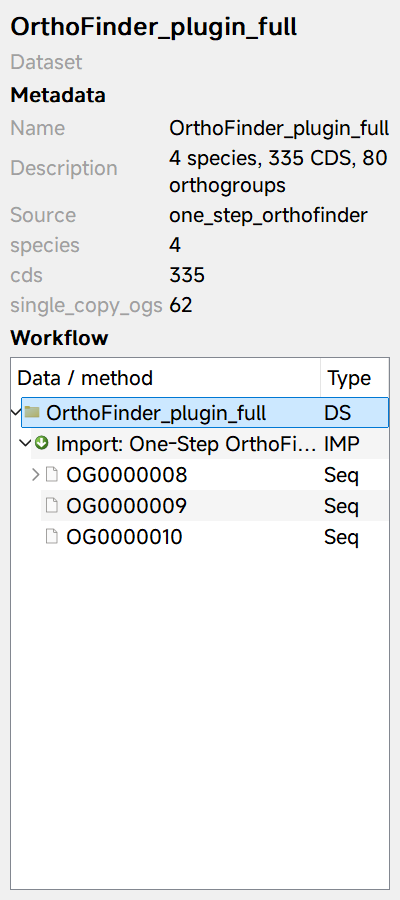
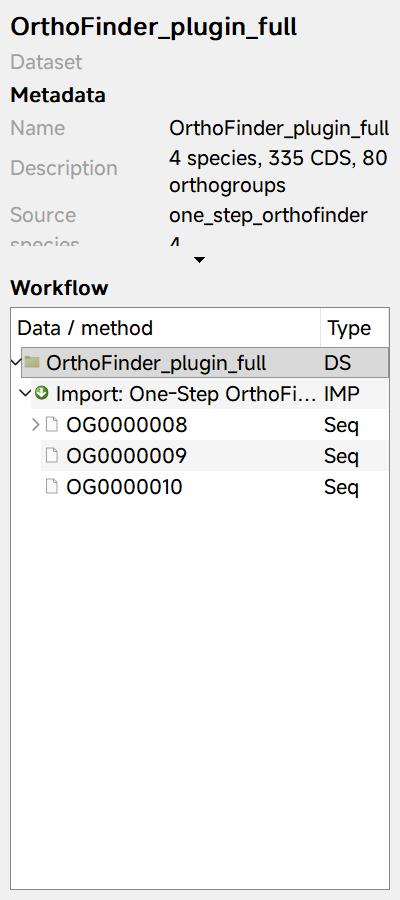
ui: animate expandable metadata section
Metadata is a scrollable QFormLayout capped to a few rows when collapsed. The bottom arrow animates it to fill the panel (title stays visible), hides Operations/Workflow/Runs, and enables a right scrollbar. Add inspector.set_metadata_expanded to the semantic action contract and update the expanded screenshot.

Changed region(s): [[0.0, 0.2489, 0.99, 0.6222], [0.15, 0.2489, 0.18, 0.28]]

diff --git a/YR_MPE/platforms/methods/inspector_panel.py b/YR_MPE/platforms/methods/inspector_panel.py
@@ -18,7 +18,7 @@ import json
 from datetime import datetime
 from typing import Any, Dict, List, Optional
 
-from PyQt5.QtCore import QSize, Qt, pyqtSignal
+from PyQt5.QtCore import QEasingCurve, QPropertyAnimation, QSize, Qt, pyqtSignal
 from PyQt5.QtGui import QFont
 from PyQt5.QtWidgets import (
     QAbstractItemView,
@@ -27,13 +27,17 @@ from PyQt5.QtWidgets import (
     QDialog,
     QDialogButtonBox,
     QFormLayout,
+    QFrame,
     QHBoxLayout,
     QHeaderView,
     QLabel,
     QLineEdit,
     QPlainTextEdit,
     QPushButton,
+    QScrollArea,
+    QSizePolicy,
     QStyle,
+    QToolButton,
     QTreeWidget,
     QTreeWidgetItem,
     QVBoxLayout,
@@ -127,6 +131,11 @@ class InspectorPanel(QWidget):
         self.current_dataset_id: Optional[str] = None
         self._item_nodes: Dict[str, QTreeWidgetItem] = {}
         self._run_nodes: Dict[str, QTreeWidgetItem] = {}
+        self._metadata_expanded = False
+        self._has_operations = False
+        self._has_run = False
+        self._metadata_collapsed_height = 132
+        self._metadata_animation: Optional[QPropertyAnimation] = None
 
         self.setObjectName("inspector")
         self._icons = {}
@@ -154,11 +163,15 @@ class InspectorPanel(QWidget):
         self.current_dataset_id = None
         self.title_label.setText("Inspector")
         self.subtitle_label.setText("Select a data node or dataset")
+        self._has_operations = False
+        self._has_run = False
+        self._metadata_expanded = False
         self._clear_operations()
-        self._set_operations_visible(False)
         self._set_form_rows([])
         self.workflow_tree.clear()
-        self.run_section.setVisible(False)
+        self.metadata_toggle.setEnabled(False)
+        self._apply_metadata_mode(animated=False)
+        self._set_secondary_visible(False)
 
     def show_item(self, item_id: str):
         item = self._get_item(item_id)
@@ -183,6 +196,8 @@ class InspectorPanel(QWidget):
         self._fill_item_metadata(item, item_type, dataset_name, run)
         self._fill_workflow(self.current_dataset_id, item_id=item_id, run_id=None)
         self._fill_runs(item)
+        self.metadata_toggle.setEnabled(True)
+        self._apply_metadata_mode(animated=False)
 
     def show_run(self, run_id: str):
         store = self._get_store()
@@ -200,10 +215,13 @@ class InspectorPanel(QWidget):
         self.subtitle_label.setText(
             "Run · %s · %s" % (run.method, dataset_name or "no dataset")
         )
+        self._has_run = False
         self._fill_run_operations(run)
         self._fill_run_metadata(run, dataset_name)
         self._fill_workflow(self.current_dataset_id, item_id=None, run_id=run_id)
         self.run_section.setVisible(False)
+        self.metadata_toggle.setEnabled(True)
+        self._apply_metadata_mode(animated=False)
 
     def show_dataset(self, dataset_id: str):
         dataset = self._get_dataset(dataset_id)
@@ -217,11 +235,14 @@ class InspectorPanel(QWidget):
         name = _attr(dataset, "name", default=dataset_id)
         self.title_label.setText(name)
         self.subtitle_label.setText("Dataset")
+        self._has_operations = False
+        self._has_run = False
         self._clear_operations()
-        self._set_operations_visible(False)
         self._fill_dataset_metadata(dataset)
         self._fill_workflow(dataset_id, item_id=None, run_id=None)
         self.run_section.setVisible(False)
+        self.metadata_toggle.setEnabled(True)
+        self._apply_metadata_mode(animated=False)
 
     def refresh(self):
         if self.current_item_id:
@@ -245,6 +266,7 @@ class InspectorPanel(QWidget):
                 "item_id": self.current_item_id,
                 "run_id": self.current_run_id,
                 "dataset_id": self.current_dataset_id,
+                "metadata_expanded": self._metadata_expanded,
             },
             "actions": [
                 {
@@ -277,6 +299,11 @@ class InspectorPanel(QWidget):
                         "run_id": {"type": "string", "required": True},
                         "name": {"type": "string", "required": True},
                     },
+                },
+                {
+                    "id": "inspector.set_metadata_expanded",
+                    "description": "Expand or collapse the metadata section",
+                    "parameters": {"expanded": {"type": "boolean", "required": True}},
                 },
                 {
                     "id": "inspector.rerun_run",
@@ -318,6 +345,9 @@ class InspectorPanel(QWidget):
                 store.rename_run(params["run_id"], params["name"])
                 self.run_renamed.emit(params["run_id"], params["name"])
                 self.refresh()
+            elif action_id == "inspector.set_metadata_expanded":
+                self._metadata_expanded = bool(params["expanded"])
+                self._apply_metadata_mode(animated=False)
             elif action_id == "inspector.rerun_run":
                 self.action_requested.emit(
                     "rerun_run",
@@ -385,7 +415,8 @@ class InspectorPanel(QWidget):
         layout.addWidget(self.operations_widget)
 
         # Metadata ----------------------------------------------------
-        layout.addWidget(self._section_label("Metadata"))
+        self.metadata_label = self._section_label("Metadata")
+        layout.addWidget(self.metadata_label)
         self.metadata_widget = QWidget()
         self.metadata_form = QFormLayout(self.metadata_widget)
         self.metadata_form.setContentsMargins(0, 0, 0, 0)
@@ -394,10 +425,35 @@ class InspectorPanel(QWidget):
         self.metadata_form.setLabelAlignment(Qt.AlignLeft | Qt.AlignTop)
         self.metadata_form.setFormAlignment(Qt.AlignLeft | Qt.AlignTop)
         self.metadata_form.setFieldGrowthPolicy(QFormLayout.AllNonFixedFieldsGrow)
-        layout.addWidget(self.metadata_widget)
+
+        self.metadata_scroll = QScrollArea()
+        self.metadata_scroll.setObjectName("inspector.metadata.scroll")
+        self.metadata_scroll.setWidgetResizable(True)
+        self.metadata_scroll.setFrameShape(QFrame.NoFrame)
+        self.metadata_scroll.setWidget(self.metadata_widget)
+        self.metadata_scroll.setMaximumHeight(self._metadata_collapsed_height)
+        self.metadata_scroll.setVerticalScrollBarPolicy(Qt.ScrollBarAlwaysOff)
+        self.metadata_scroll.setHorizontalScrollBarPolicy(Qt.ScrollBarAlwaysOff)
+        layout.addWidget(self.metadata_scroll, 1)
+
+        self.metadata_toggle = QToolButton()
+        self.metadata_toggle.setObjectName("inspector.metadata.toggle")
+        self.metadata_toggle.setArrowType(Qt.DownArrow)
+        self.metadata_toggle.setAutoRaise(True)
+        self.metadata_toggle.setFixedHeight(16)
+        self.metadata_toggle.setSizePolicy(QSizePolicy.Expanding, QSizePolicy.Fixed)
+        self.metadata_toggle.setToolTip("Expand metadata")
+        self.metadata_toggle.clicked.connect(self._toggle_metadata)
+        layout.addWidget(self.metadata_toggle)
+
+        self._metadata_animation = QPropertyAnimation(self.metadata_scroll, b"maximumHeight", self)
+        self._metadata_animation.setDuration(180)
+        self._metadata_animation.setEasingCurve(QEasingCurve.OutCubic)
+        self._metadata_animation.finished.connect(self._on_metadata_animation_finished)
 
         # Workflow ----------------------------------------------------
-        layout.addWidget(self._section_label("Workflow"))
+        self.workflow_label = self._section_label("Workflow")
+        layout.addWidget(self.workflow_label)
         self.workflow_tree = QTreeWidget()
         self.workflow_tree.setObjectName("inspector.workflow")
         self.workflow_tree.setColumnCount(2)
@@ -453,6 +509,52 @@ class InspectorPanel(QWidget):
         if object_name:
             button.setObjectName(object_name)
         return button
+
+    # ------------------------------------------------------------------
+    # metadata collapse / expand
+    # ------------------------------------------------------------------
+    def _toggle_metadata(self):
+        if self.metadata_form.rowCount() == 0:
+            return
+        self._metadata_expanded = not self._metadata_expanded
+        self._apply_metadata_mode(animated=True)
+
+    def _apply_metadata_mode(self, animated=False):
+        expanded = self._metadata_expanded
+        self.metadata_toggle.setArrowType(Qt.UpArrow if expanded else Qt.DownArrow)
+        self.metadata_toggle.setToolTip("Collapse metadata" if expanded else "Expand metadata")
+        self.metadata_scroll.setVerticalScrollBarPolicy(
+            Qt.ScrollBarAlwaysOn if expanded else Qt.ScrollBarAlwaysOff
+        )
+        self._set_secondary_visible(not expanded)
+
+        if self._metadata_animation is not None:
+            self._metadata_animation.stop()
+
+        if not animated:
+            self.metadata_scroll.setMaximumHeight(
+                16777215 if expanded else self._metadata_collapsed_height
+            )
+            return
+
+        start = max(0, self.metadata_scroll.height())
+        if expanded:
+            end = max(240, self.height() - 80)
+        else:
+            end = self._metadata_collapsed_height
+        self._metadata_animation.setStartValue(start)
+        self._metadata_animation.setEndValue(end)
+        self._metadata_animation.start()
+
+    def _on_metadata_animation_finished(self):
+        if self._metadata_expanded:
+            self.metadata_scroll.setMaximumHeight(16777215)
+
+    def _set_secondary_visible(self, visible):
+        self._set_operations_visible(visible and self._has_operations)
+        self.workflow_label.setVisible(visible)
+        self.workflow_tree.setVisible(visible)
+        self.run_section.setVisible(visible and self._has_run)
 
     # ------------------------------------------------------------------
     # data access
@@ -548,6 +650,7 @@ class InspectorPanel(QWidget):
         return None
 
     def _fill_item_operations(self, item, item_type, run):
+        self._has_operations = True
         self._clear_operations()
         self._add_operation("Show in dataset", self._on_show, "inspector.operation.show")
         kind = self._preview_kind(item_type)
@@ -569,6 +672,7 @@ class InspectorPanel(QWidget):
         self._set_operations_visible(True)
 
     def _fill_run_operations(self, run):
+        self._has_operations = True
         self._clear_operations()
         self._add_operation(
             "View command", lambda: self._view_command(run.id),
@@ -906,6 +1010,7 @@ class InspectorPanel(QWidget):
             siblings = [other for other in siblings if self._run_for_item(other) is not None]
             if not any(_attr(other, "id", default="") == _attr(item, "id", default="") for other in siblings):
                 siblings.insert(0, item)
+        self._has_run = run is not None
         self.run_section.setVisible(run is not None)
 
         self.run_combo.blockSignals(True)

diff --git a/dev/inspector/test_inspector.py b/dev/inspector/test_inspector.py
@@ -94,6 +94,26 @@ class InspectorPanelTests(unittest.TestCase):
         panel._on_tree_clicked(item_node, 0)
         self.assertEqual(len(activated), 1)
 
+    def test_metadata_expand_collapse(self):
+        panel = self.panel
+        panel.show_item(self.tree_item.id)
+        self.assertFalse(panel._metadata_expanded)
+        self.assertEqual(panel.metadata_scroll.maximumHeight(), panel._metadata_collapsed_height)
+        self.assertEqual(panel.metadata_toggle.arrowType(), Qt.DownArrow)
+
+        panel._toggle_metadata()
+        self.assertTrue(panel._metadata_expanded)
+        self.assertEqual(panel.metadata_toggle.arrowType(), Qt.UpArrow)
+        self.assertTrue(panel.workflow_tree.isHidden())
+        self.assertEqual(
+            panel.metadata_scroll.verticalScrollBarPolicy(), Qt.ScrollBarAlwaysOn
+        )
+
+        panel._toggle_metadata()
+        self.assertFalse(panel._metadata_expanded)
+        self.assertEqual(panel.metadata_toggle.arrowType(), Qt.DownArrow)
+        self.assertFalse(panel.workflow_tree.isHidden())
+
     def test_agent_contract(self):
         panel = self.panel
         contract = panel.agent_contract()
@@ -102,8 +122,15 @@ class InspectorPanelTests(unittest.TestCase):
         self.assertIn("inspector.show_run", ids)
         self.assertIn("inspector.preview", ids)
         self.assertIn("inspector.rename_run", ids)
+        self.assertIn("inspector.set_metadata_expanded", ids)
         self.assertIn("inspector.rerun_run", ids)
         self.assertIn("inspector.invoke_operation", ids)
+
+        result = panel.agent_invoke(
+            "inspector.set_metadata_expanded", {"expanded": True}
+        )
+        self.assertTrue(result["ok"])
+        self.assertTrue(panel._metadata_expanded)
 
         emitted = []
         panel.action_requested.connect(lambda *args: emitted.append(args))

diff --git a/dev/inspector/render_inspector.py b/dev/inspector/render_inspector.py
@@ -141,6 +141,14 @@ def main() -> int:
         app.processEvents()
     panel.grab().save(str(out_dir / "01_inspector_item.png"))
 
+    panel._metadata_expanded = True
+    panel._apply_metadata_mode(animated=False)
+    for _ in range(4):
+        app.processEvents()
+    panel.grab().save(str(out_dir / "04_inspector_metadata_expanded.png"))
+    panel._metadata_expanded = False
+    panel._apply_metadata_mode(animated=False)
+
     panel.show_run(tree_item.run_id)
     for _ in range(4):
         app.processEvents()
@@ -155,6 +163,7 @@ def main() -> int:
     print("wrote", out_dir / "01_inspector_item.png")
     print("wrote", out_dir / "02_inspector_dataset.png")
     print("wrote", out_dir / "03_inspector_edge.png")
+    print("wrote", out_dir / "04_inspector_metadata_expanded.png")
     return 0
 
 

diff --git a/dev/agent/UI_SEMANTICS.md b/dev/agent/UI_SEMANTICS.md
@@ -30,6 +30,8 @@ panel.agent_invoke("inspector.rename_run", {"run_id": "run_...", "name": "IQ-TRE
     {"id": "inspector.show_dataset", "parameters": {"dataset_id": {"type": "string", "required": true}}},
     {"id": "inspector.preview", "parameters": {"item_id": {"type": "string"}, "kind": {"type": "string"}}},
     {"id": "inspector.rename_run", "parameters": {"run_id": {"type": "string"}, "name": {"type": "string"}}},
+    {"id": "inspector.set_metadata_expanded", "parameters": {"expanded": {"type": "boolean"}}},
+    {"id": "inspector.rerun_run", "parameters": {"run_id": {"type": "string"}, "parameters": {"type": "object"}}},
     {"id": "inspector.invoke_operation", "parameters": {"operation": {"type": "string"}, "target_id": {"type": "string"}}}
   ]
 }
